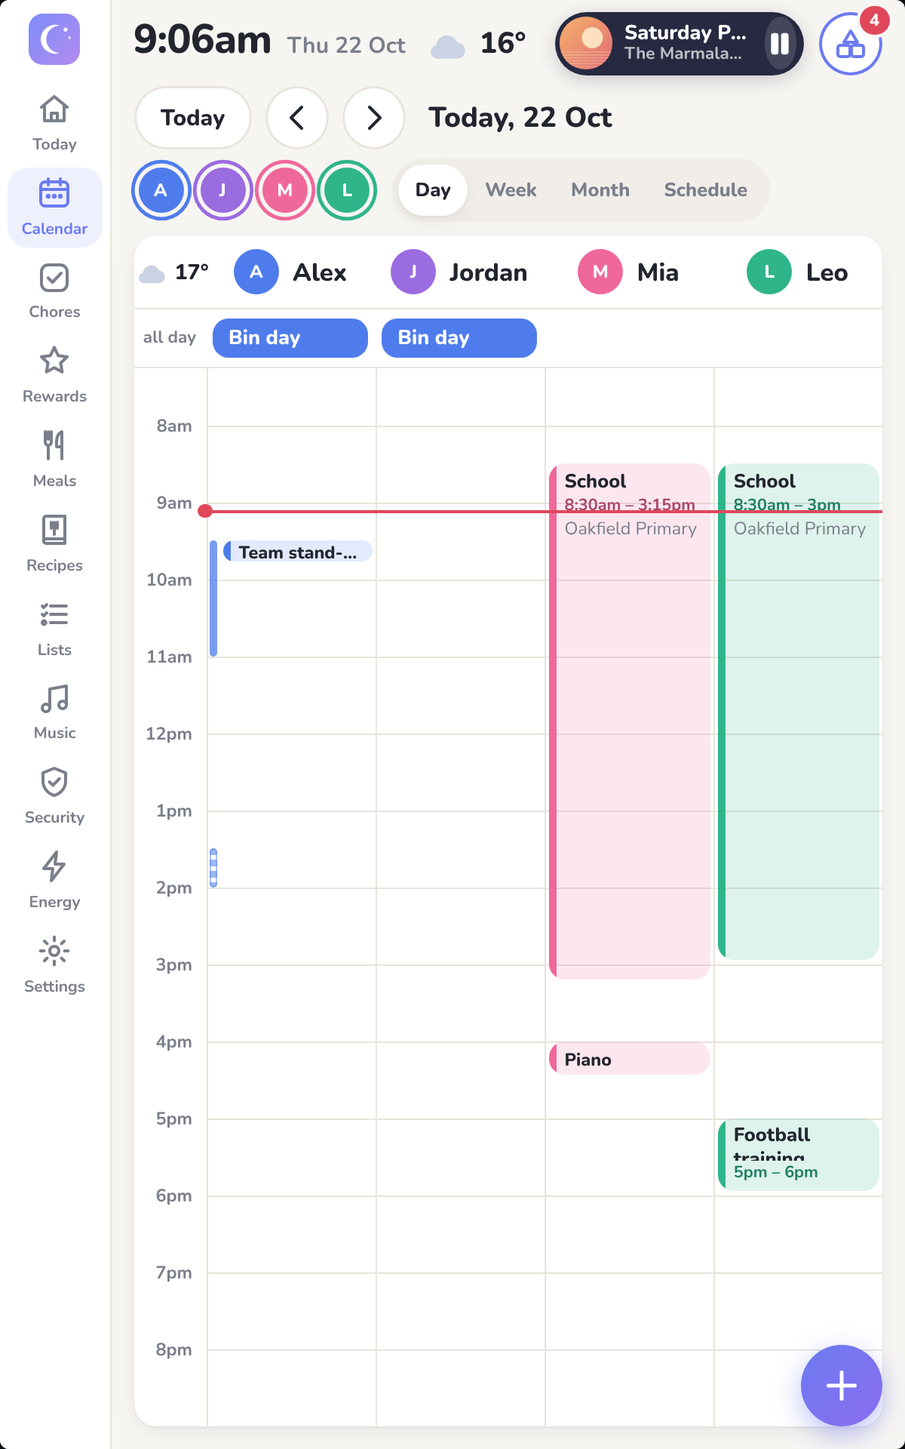
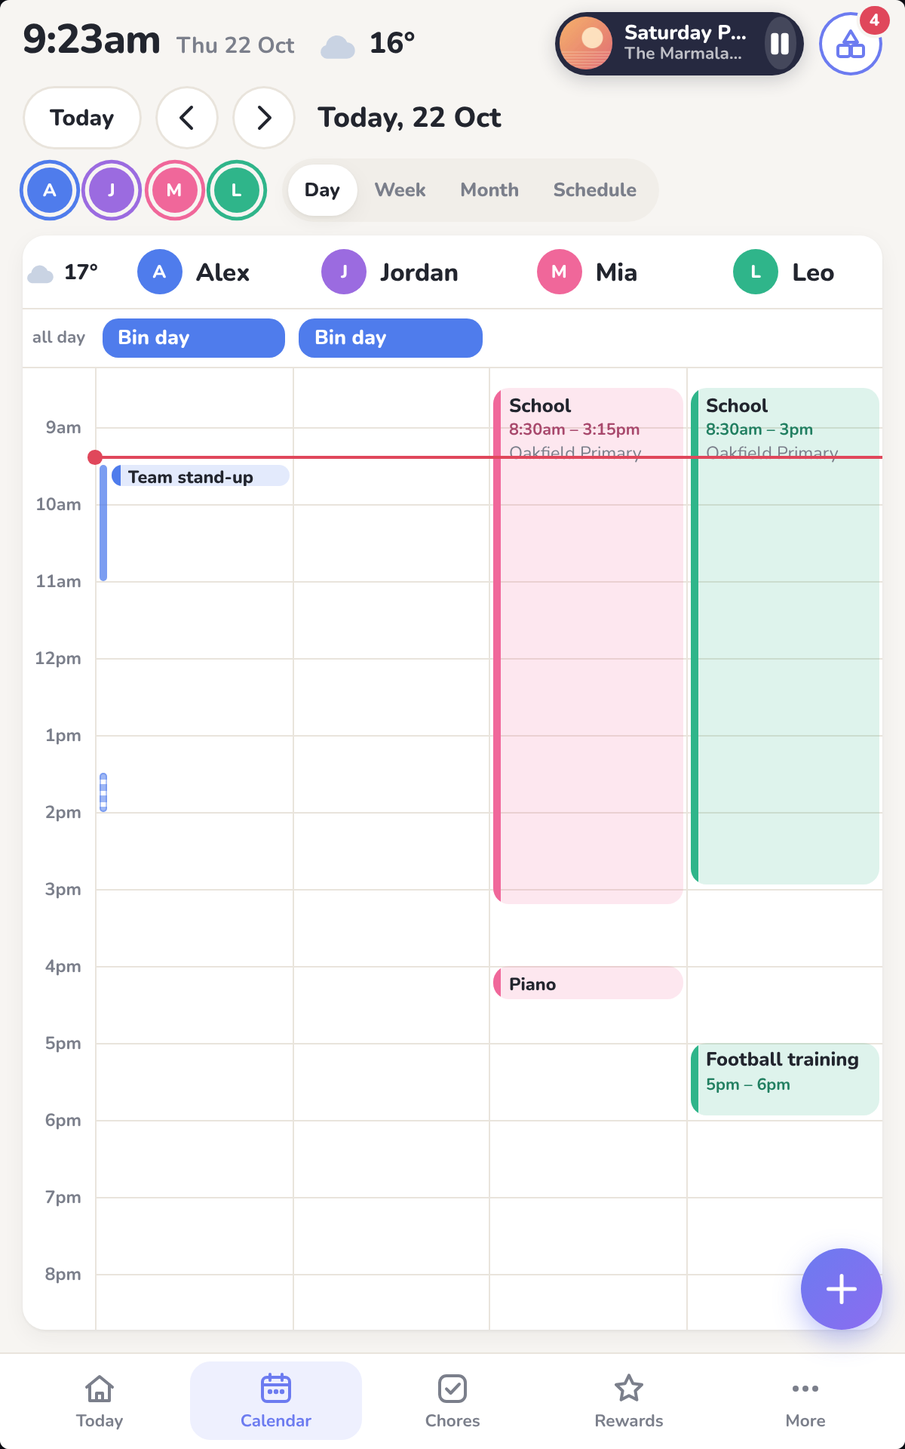
Upright compact screens: menu as a bottom bar with a More sheet
Stood upright, a compact screen's menu moves to a bar along the bottom with
up to four tabs and More for the rest. Settings > Screens picks the four
per screen (or per style) as setup `bar`; unset = the menu's first four.

Claude-Session: https://claude.ai/code/session_01SxJqwE1FKDR6SPmU7qiS3u

diff --git a/frontend/src/views/DisplaysSettings.tsx b/frontend/src/views/DisplaysSettings.tsx
@@ -1,6 +1,6 @@
 import { useEffect, useState } from "react";
 import {
-  ApiError, DEFAULT_IDLE, DEFAULT_SCREENS, Display, DisplaySetup, ImmichAlbum, ImmichConfig, ImmichMode, Layout, MediaPlayerOption, SECTIONS, STYLE_LABEL,
+  ApiError, BAR_MAX, BarTab, DEFAULT_IDLE, DEFAULT_SCREENS, Display, DisplaySetup, ImmichAlbum, ImmichConfig, ImmichMode, Layout, MediaPlayerOption, SECTIONS, STYLE_LABEL,
   Section, Settings,
 } from "../api/types";
 import { useApp, useData, useNow } from "../state";
@@ -27,6 +27,9 @@ const STYLES: { layout: Layout; note: string }[] = [
 const SECTION_LABEL: Record<Section, string> = {
   today: "Today", calendar: "Calendar", chores: "Chores", rewards: "Rewards", meals: "Meals", recipes: "Recipes", lists: "Lists", nursery: "Nursery", security: "Security", energy: "Energy",
 };
+const TAB_LABEL: Record<BarTab, string> = { ...SECTION_LABEL, music: "Music", settings: "Settings" };
+/** The menu's order, with Music (there whenever the screen has a speaker) after Lists. */
+const MENU_ORDER: BarTab[] = [...SECTIONS.slice(0, 7), "music", ...SECTIONS.slice(7), "settings"];
 const SPEAKER_WHERE: Record<Layout, string> = {
   compact: "A Music section, a card on Today, and controls on the screensaver",
   large: "A Music section, a small player in the top bar, and controls on the screensaver",
@@ -172,13 +175,23 @@ function SetupSheet({ display, layout: initialLayout, players, playersError, onC
   const [start, setStart] = useState<Section>(initial.start);
   const [speaker, setSpeaker] = useState(initial.speaker);
   const [idle, setIdle] = useState(initial.idle_minutes);
+  const [bar, setBar] = useState<BarTab[] | null>(initial.bar?.length ? initial.bar : null);
   const [saving, setSaving] = useState(false);
   const [removing, setRemoving] = useState(false);
   const shown = SECTIONS.filter((x) => sections.includes(x));
   const opensOn = shown.includes(start) ? start : shown[0];
-  const setup: DisplaySetup = { sections: shown, start: opensOn, speaker, idle_minutes: idle };
-  const changed = JSON.stringify(setup) !== JSON.stringify({ sections: initial.sections, start: initial.start, speaker: initial.speaker, idle_minutes: initial.idle_minutes });
+  // The bottom bar (compact screens stood upright): the chosen tabs, else the menu's first four.
+  const menu = MENU_ORDER.filter((x) => x === "settings" || (x === "music" ? !!speaker : shown.includes(x)));
+  const inBar = bar ? menu.filter((x) => bar.includes(x)) : menu.slice(0, BAR_MAX);
+  const setup: DisplaySetup = { sections: shown, start: opensOn, speaker, idle_minutes: idle, bar: bar && inBar };
+  const changed = JSON.stringify(setup) !== JSON.stringify({ sections: initial.sections, start: initial.start, speaker: initial.speaker,
+    idle_minutes: initial.idle_minutes, bar: initial.bar?.length ? menu.filter((x) => initial.bar!.includes(x)) : null });
   const title = display ? display.name : `${STYLE_LABEL[initialLayout]} screens`;
+  function toggleBar(x: BarTab) {
+    if (inBar.includes(x)) { const next = inBar.filter((y) => y !== x); setBar(next.length ? next : null); }
+    else if (inBar.length >= BAR_MAX) toast(`Up to ${BAR_MAX}: the rest go under More`);
+    else setBar(menu.filter((y) => y === x || inBar.includes(y)));
+  }
   function toggle(x: Section) {
     if (sections.includes(x)) { if (sections.length > 1) setSections(sections.filter((y) => y !== x)); }
     else setSections([...sections, x]);
@@ -196,7 +209,7 @@ function SetupSheet({ display, layout: initialLayout, players, playersError, onC
         });
       } else {
         await api.updateSettings({
-          pin, screens: { [layout]: { sections: shown, start: opensOn } },
+          pin, screens: { [layout]: { sections: shown, start: opensOn, bar: bar && inBar } },
           media_players: { [layout]: speaker }, idle_minutes: { [layout]: idle },
         });
       }
@@ -258,6 +271,15 @@ function SetupSheet({ display, layout: initialLayout, players, playersError, onC
             <button key={x} type="button" className={"chip-btn" + (opensOn === x ? " on" : "")} onClick={() => setStart(x)}>{SECTION_LABEL[x]}</button>
           ))}
         </div>
+        {layout === "compact" && menu.length > BAR_MAX + 1 && (<>
+          <label className="field-label">Bottom bar when upright</label>
+          <p className="muted connect-note">A compact screen stood on its end has its menu along the bottom. Pick up to {BAR_MAX} tabs for the bar; the rest go under More.</p>
+          <div className="chip-row">
+            {menu.map((x) => (
+              <button key={x} type="button" className={"chip-btn" + (inBar.includes(x) ? " on" : "")} aria-pressed={inBar.includes(x)} onClick={() => toggleBar(x)}>{TAB_LABEL[x]}</button>
+            ))}
+          </div>
+        </>)}
         <label className="field-label">Speaker</label>
         <p className="muted connect-note">{SPEAKER_WHERE[layout]}. Speakers come from Home Assistant; with Music Assistant, Sonos and others appear here.</p>
         {playersError && <div className="form-error">{playersError}</div>}

diff --git a/frontend/src/App.tsx b/frontend/src/App.tsx
@@ -1,10 +1,10 @@
 import { CSSProperties, ReactNode, RefObject, useCallback, useEffect, useLayoutEffect, useRef, useState } from "react";
-import { Api, DEFAULT_SCREENS, Display, Person, Section, Settings, Theme } from "./api/types";
+import { Api, BAR_MAX, DEFAULT_SCREENS, Display, Person, Section, Settings, Theme } from "./api/types";
 import { AppProvider, Layout, useApp, useNow } from "./state";
 import { fmtDayMonth, fmtDow, fmtFull, today } from "./dates";
-import { PinPad } from "./components/ui";
+import { PinPad, Sheet } from "./components/ui";
 import {
-  IconBolt, IconCalendar, IconChores, IconHome, IconLists, IconMeals, IconMusic, IconNursery, IconRecipes, IconSettings, IconShield, IconStar, Logo, WeatherIcon,
+  IconBolt, IconCalendar, IconChores, IconHome, IconLists, IconMeals, IconMore, IconMusic, IconNursery, IconRecipes, IconSettings, IconShield, IconStar, Logo, WeatherIcon,
 } from "./components/icons";
 import { CalendarView } from "./views/CalendarView";
 import { ChoresView } from "./views/ChoresView";
@@ -160,6 +160,11 @@ export function App({ api, layout, onLayout }: { api: Api; layout: Layout; onLay
   // Music comes with a speaker: it's there whenever this screen has one (Settings > Screens > Set up > Speaker).
   const speaker = screen?.setup?.speaker ?? settings?.media_players?.[layout] ?? "";
   const nav = NAV.filter((n) => n.key === "settings" || (n.key === "music" ? !!speaker : setup.sections.includes(n.key as Section)));
+  // Stood upright, a compact screen's menu is a bottom bar: the chosen tabs (else the first four), the rest under More.
+  const picked = nav.filter((n) => chosen.bar?.includes(n.key));
+  const bar = !portrait || nav.length <= BAR_MAX + 1 ? nav : picked.length ? picked.slice(0, BAR_MAX) : nav.slice(0, BAR_MAX);
+  const more = nav.filter((n) => !bar.includes(n));
+  const [moreOpen, setMoreOpen] = useState(false);
   // Open on the chosen start section once settings arrive, and leave a section that was just hidden.
   const opened = useRef(false);
   useEffect(() => {
@@ -195,14 +200,35 @@ export function App({ api, layout, onLayout }: { api: Api; layout: Layout; onLay
        <MediaProvider api={api} layout={layout}>
         <nav className="rail">
           <div className="rail-logo"><Logo size={layout === "large" ? 44 : 34} /></div>
-          {nav.map((n) => (
+          {bar.map((n) => (
             <button key={n.key} className={"rail-item" + (tab === n.key ? " on" : "")} onClick={() => setTab(n.key)}>
               <n.icon size={layout === "large" ? 30 : layout === "phone" ? 21 : 24} />
               {n.key === "nursery" && nursery.unread > 0 && tab !== "nursery" && <i className="rail-dot" aria-label="New" />}
               <span>{n.label}</span>
             </button>
           ))}
+          {more.length > 0 && (
+            <button className={"rail-item" + (more.some((n) => n.key === tab) ? " on" : "")} onClick={() => setMoreOpen(true)}>
+              <IconMore size={24} />
+              {more.some((n) => n.key === "nursery") && nursery.unread > 0 && tab !== "nursery" && <i className="rail-dot" aria-label="New" />}
+              <span>More</span>
+            </button>
+          )}
         </nav>
+        {moreOpen && (
+          <Sheet title="More" onClose={() => setMoreOpen(false)}>
+            <div className="more-grid">
+              {more.map((n) => (
+                <button key={n.key} className={"more-item" + (tab === n.key ? " on" : "")} onClick={() => { setTab(n.key); setMoreOpen(false); }}>
+                  <n.icon size={30} />
+                  {n.key === "nursery" && nursery.unread > 0 && tab !== "nursery" && <i className="rail-dot" aria-label="New" />}
+                  <span>{n.label}</span>
+                </button>
+              ))}
+            </div>
+            <p className="muted connect-note">Choose what's in the bar in Settings › Screens.</p>
+          </Sheet>
+        )}
         <main className="main">
           {/* A compact screen's Today has its own Now playing card; everywhere else a small pill in the top bar. */}
           {/* Energy on a wall screen fills the screen and carries its own clock. */}

diff --git a/frontend/src/styles.css b/frontend/src/styles.css
@@ -1570,6 +1570,13 @@ button.rw-emoji, button.rw-title { cursor: pointer; }
 
 /* Compact screen stood upright (the Touch Display 2 is portrait natively): the `portrait` class comes from the app's
    own box (see usePortrait in App), not the window, so the demo's preview frame shows it too. */
+/* The menu is a bottom bar: up to four chosen tabs and More (App.tsx), full width like a phone's tab bar */
+.layout-compact.portrait { grid-template-columns: minmax(0, 1fr); grid-template-rows: minmax(0, 1fr) auto; }
+.layout-compact.portrait .main { grid-row: 1; }
+.layout-compact.portrait .rail { grid-row: 2; flex-direction: row; justify-content: space-around; width: auto; padding: 0.3rem 0.6rem 0.4rem; border-right: 0; border-top: 1px solid var(--line); gap: 0.2rem; }
+.layout-compact.portrait .rail-logo { display: none; }
+.layout-compact.portrait .rail-item { flex: 1 1 0; min-width: 0; max-width: 8rem; padding: 0.4rem 0.2rem 0.35rem; gap: 0.15rem; font-size: 0.75rem; }
+.layout-compact.portrait .rail-item span { max-width: 100%; overflow: hidden; text-overflow: ellipsis; white-space: nowrap; }
 .layout-compact.portrait .topbar { gap: 0.7rem; }
 .layout-compact.portrait .tb-date { white-space: nowrap; overflow: hidden; text-overflow: ellipsis; min-width: 0; }
 .layout-compact.portrait .tb-time, .layout-compact.portrait .tb-wx { flex: none; }
@@ -1634,3 +1641,8 @@ button.rw-emoji, button.rw-title { cursor: pointer; }
 .layout-compact.portrait .ss-np { left: 0; right: 0; top: 0; bottom: auto; width: auto; max-width: none; }
 .layout-compact.portrait .ss-right .ss-next { align-self: flex-start; }
 .layout-compact.portrait .ss-right:has(.ss-np) .ss-next { margin-top: 8rem; }
+/* More: the tabs that aren't in the bottom bar */
+.more-grid { display: grid; grid-template-columns: repeat(auto-fill, minmax(7rem, 1fr)); gap: 0.6rem; }
+.more-item { position: relative; display: flex; flex-direction: column; align-items: center; gap: 0.35rem; padding: 1rem 0.4rem 0.8rem; border-radius: var(--radius); background: var(--surface-2); color: var(--text-2); font-weight: 800; }
+.more-item.on { background: var(--accent-soft); color: var(--accent); }
+.more-item:active { background: var(--line); }

diff --git a/frontend/src/api/types.ts b/frontend/src/api/types.ts
@@ -35,7 +35,10 @@ export interface Holiday { date: string; name: string }
 export interface HolidayCountry { code: string; name: string; subdivs: { code: string; name: string }[] }
 export type Section = "today" | "calendar" | "chores" | "rewards" | "meals" | "recipes" | "lists" | "nursery" | "security" | "energy";
 export const SECTIONS: Section[] = ["today", "calendar", "chores", "rewards", "meals", "recipes", "lists", "nursery", "security", "energy"];
-export interface ScreenSetup { start: Section; sections: Section[] }
+/** `bar`: up to four tabs kept in the bottom bar of a compact screen stood upright, the rest under More (unset = the menu's first four). */
+export interface ScreenSetup { start: Section; sections: Section[]; bar?: BarTab[] | null }
+export type BarTab = Section | "music" | "settings";
+export const BAR_MAX = 4;
 export const DEFAULT_SCREENS: Record<Layout, ScreenSetup> = {
   large: { start: "calendar", sections: ["calendar", "chores", "rewards", "meals", "recipes", "lists", "nursery", "security", "energy"] },
   compact: { start: "today", sections: SECTIONS.filter((s) => s !== "nursery") },
@@ -170,7 +173,7 @@ export interface Display {
   setup?: DisplaySetup; own_setup?: boolean;
 }
 /** A paired screen's setup: menu sections, the one it opens on, its speaker ("" = none), screensaver delay (0 = never). */
-export interface DisplaySetup { start: Section; sections: Section[]; speaker: string; idle_minutes: number }
+export interface DisplaySetup { start: Section; sections: Section[]; speaker: string; idle_minutes: number; bar?: BarTab[] | null }
 export interface DisplayPatch { pin: string; name?: string; layout?: Layout; setup?: Partial<DisplaySetup> | null }
 export const DEFAULT_IDLE: Record<Layout, number> = { large: 5, compact: 3, phone: 0 };
 export const STYLE_LABEL: Record<Layout, string> = { large: "Large", compact: "Compact", phone: "Phone" };

diff --git a/backend/moonlight/routes/displays.py b/backend/moonlight/routes/displays.py
@@ -25,6 +25,9 @@ from ..common import LAYOUTS, as_int, bad, body_dict, choice, hub, layout_name, 
 router = APIRouter(prefix="/api")
 
 SECTIONS = ("today", "calendar", "chores", "rewards", "meals", "recipes", "lists", "nursery", "security", "energy")  # Settings is always shown
+# The bottom bar of a compact screen stood upright: up to four of its menu's tabs, the rest under More.
+BAR_TABS = (*SECTIONS, "music", "settings")
+BAR_MAX = 4
 SERVICE = "service"  # a non-screen client, e.g. the Home Assistant integration
 APP = "app"  # the iPhone and iPad app
 NOT_SCREENS = (SERVICE, APP)
@@ -45,8 +48,11 @@ def style_setup(c, layout: str) -> dict:
     screens = db.get_setting(c, "screens", db.DEFAULT_SETTINGS["screens"])
     idle = db.get_setting(c, "idle_minutes", db.DEFAULT_SETTINGS["idle_minutes"])
     s = {**db.DEFAULT_SETTINGS["screens"][layout], **(screens.get(layout) or {})}
-    return {"start": s["start"], "sections": list(s["sections"]), "speaker": media.players_setting(c)[layout],
-            "idle_minutes": idle.get(layout, db.DEFAULT_SETTINGS["idle_minutes"][layout])}
+    out = {"start": s["start"], "sections": list(s["sections"]), "speaker": media.players_setting(c)[layout],
+           "idle_minutes": idle.get(layout, db.DEFAULT_SETTINGS["idle_minutes"][layout])}
+    if s.get("bar"):
+        out["bar"] = list(s["bar"])  # unset = the menu's first four
+    return out
 
 
 def display_out(d: dict, current_id: str | None = None, c=None) -> dict:
@@ -61,7 +67,7 @@ def display_out(d: dict, current_id: str | None = None, c=None) -> dict:
                 base = style_setup(c2, d["layout"])
         else:
             base = style_setup(c, d["layout"])
-        out["setup"] = {**base, **{k: v for k, v in own.items() if k in base}}
+        out["setup"] = {**base, **{k: v for k, v in own.items() if k in base or k == "bar"}}
         out["own_setup"] = bool(own)
     return out
 
@@ -167,7 +173,7 @@ async def approve(body: dict = Body(...)):
 @router.patch("/displays/{display_id}")
 async def update(display_id: str, request: Request, body: dict = Body(...)):
     """Change a paired screen: `{pin, name?, layout?, setup?}`. `setup` is `{start?, sections?, speaker?,
-    idle_minutes?}` merged into its own setup, or `null` to follow its style again."""
+    idle_minutes?, bar?}` merged into its own setup, or `null` to follow its style again."""
     body = body_dict(body)
     with db.connect() as c:
         require_pin(c, body.get("pin"))
@@ -223,6 +229,9 @@ def _check_setup(c, layout: str, s: dict) -> dict:
             if not 0 <= v <= 1440:
                 raise bad("setup.idle_minutes must be between 0 (never) and 1440")
             out[k] = v
+        elif k == "bar":
+            if v is not None:  # null = back to the menu's first four
+                out[k] = check_bar(v, "setup.bar")
         else:
             raise bad(f"Unknown setup field {k}")
     sections = out.get("sections", base["sections"])
@@ -231,8 +240,15 @@ def _check_setup(c, layout: str, s: dict) -> dict:
     return out
 
 
+def check_bar(v, field: str) -> list[str]:
+    """The tabs a compact screen keeps in its bottom bar when upright, in the order given."""
+    if not isinstance(v, list) or len(v) > BAR_MAX or any(x not in BAR_TABS for x in v):
+        raise bad(f"{field} must be a list of up to {BAR_MAX} of " + ", ".join(BAR_TABS))
+    return list(dict.fromkeys(v))
+
+
 def apply_settings(c, body: dict) -> None:
-    """PATCH /api/settings `screens`: {layout: {start?, sections?}}; layouts not sent are kept."""
+    """PATCH /api/settings `screens`: {layout: {start?, sections?, bar?}}; layouts not sent are kept."""
     if "screens" not in body:
         return
     val = body["screens"]
@@ -251,6 +267,11 @@ def apply_settings(c, body: dict) -> None:
             s["sections"] = [x for x in SECTIONS if x in secs]
         if "start" in conf:
             s["start"] = choice(conf["start"], f"screens.{layout}.start", SECTIONS)
+        if "bar" in conf:
+            if conf["bar"] is None:
+                s.pop("bar", None)
+            else:
+                s["bar"] = check_bar(conf["bar"], f"screens.{layout}.bar")
         if s["start"] not in s["sections"]:
             if "start" in conf:
                 raise bad(f"screens.{layout}.start must be one of its sections")

diff --git a/backend/tests/test_displays.py b/backend/tests/test_displays.py
@@ -237,7 +237,9 @@ def test_one_address_and_per_screen_setup(app_on, ha):
     assert r["own_setup"] is False and r["setup"]["start"] == "today" and r["setup"]["idle_minutes"] == 3
 
     for bad in ({"setup": {"sections": []}}, {"setup": {"start": "settings"}}, {"setup": {"speaker": "light.x"}},
-                {"setup": {"idle_minutes": -1}}, {"setup": {"colour": "red"}}, {"setup": []}, {"layout": "tv"}):
+                {"setup": {"idle_minutes": -1}}, {"setup": {"colour": "red"}}, {"setup": []}, {"layout": "tv"},
+                {"setup": {"bar": ["today", "calendar", "meals", "lists", "music"]}}, {"setup": {"bar": ["garage"]}},
+                {"setup": {"bar": "today"}}):
         assert ha.patch(f"/api/displays/{d['id']}", json={"pin": PIN, **bad}).status_code == 400, bad
     assert ha.patch(f"/api/displays/{other['id']}", json={"pin": "0000", "layout": "phone"}).status_code == 403
 
@@ -301,3 +303,26 @@ def test_the_phone_app_is_not_a_screen(app_on, ha):
     assert lan(app_on, headers={"Authorization": f"Bearer {token}"}).get("/api/people").status_code == 200
     assert ha.patch(f"/api/displays/{d['id']}", json={"pin": PIN, "layout": "phone"}).status_code == 400
     assert ha.patch(f"/api/displays/{d['id']}", json={"pin": PIN, "name": "Chris's iPhone"}).json()["name"] == "Chris's iPhone"
+
+
+def test_bottom_bar_choice(app_on, ha):
+    """A compact screen stood upright keeps up to four chosen tabs in its bottom bar; unset = automatic."""
+    _, d = pair(ha, lan(app_on), name="Kitchen", layout="compact")
+    assert "bar" not in d["setup"]
+    r = ha.patch(f"/api/displays/{d['id']}", json={"pin": PIN, "setup": {"bar": ["today", "meals", "music", "meals"]}})
+    assert r.status_code == 200, r.text
+    assert r.json()["setup"]["bar"] == ["today", "meals", "music"] and r.json()["own_setup"] is True
+    r = ha.patch(f"/api/displays/{d['id']}", json={"pin": PIN, "setup": {"idle_minutes": 4}}).json()
+    assert r["setup"]["bar"] == ["today", "meals", "music"]  # other changes keep it
+    r = ha.patch(f"/api/displays/{d['id']}", json={"pin": PIN, "setup": {"bar": None}}).json()
+    assert "bar" not in r["setup"]
+
+    # The style's choice, for compact screens without their own setup.
+    _, other = pair(ha, lan(app_on), name="Hall", layout="compact")
+    assert ha.patch("/api/settings", json={"pin": PIN, "screens": {"compact": {"bar": ["calendar", "settings"]}}}).status_code == 200
+    shown = {x["name"]: x for x in ha.get("/api/displays").json()}
+    assert shown["Hall"]["setup"]["bar"] == ["calendar", "settings"]
+    assert ha.patch("/api/settings", json={"pin": PIN, "screens": {"compact": {"bar": ["x"]}}}).status_code == 400
+    ha.patch("/api/settings", json={"pin": PIN, "screens": {"compact": {"bar": None}}})
+    shown = {x["name"]: x for x in ha.get("/api/displays").json()}
+    assert "bar" not in shown["Hall"]["setup"]

diff --git a/API.md b/API.md
@@ -29,7 +29,9 @@ implementation of the same contract, used for the published preview). Keep them 
   `screens` = per style `{start, sections}`: the sections its menu shows, in menu order, from `today, calendar,
   chores, rewards, meals, recipes, lists, nursery, security, energy` (Settings is always shown), and the one it opens on (default large
   `{start: "calendar", sections: all but today}`, compact `{start: "today", sections: all but nursery}`, phone the same). Upgrading to 0.6.0 adds `security` once to the large and compact menus, and 0.8.5 to the phone
-  menus; upgrading to 0.8.0 adds `energy` once to every style's menu.
+  menus; upgrading to 0.8.0 adds `energy` once to every style's menu. `bar` (optional): up to 4 tabs from the sections
+  plus `music` and `settings`, in order, kept in the bottom bar of a compact screen stood upright (the rest go under
+  More); unset or null = the menu's first four.
   `weather_entity` = the HA weather entity the screens show (`""` = demo forecast; falls back to `MOONLIGHT_WEATHER_ENTITY`
   until one is saved).
   `holidays` = the public holidays that `skip_holidays` repeats leave out: ISO country code (`""` = none) and region
@@ -546,7 +548,7 @@ Every screen opens the same address, `/display`, and is told apart by the token 
 can't read a MAC address). Each paired screen has a name, a style and its own setup.
 
 Display = `{id, name, layout: "large"|"compact"|"phone"|"service"|"app", created_at, last_seen|null, revoked, current: bool,
-setup?: {start, sections, speaker, idle_minutes}, own_setup?: bool}`
+setup?: {start, sections, speaker, idle_minutes, bar?}, own_setup?: bool}`
 (`current` = the screen making the request; `last_seen` updated at most once a minute). Screens only: `setup` is what it
 shows, its own choices over its style's (Settings `screens`, `media_players`, `idle_minutes`); `own_setup` says whether
 it has choices of its own. The frontend takes the style from `GET /api/auth/status` and switches when it changes.
@@ -563,7 +565,8 @@ it has choices of its own. The frontend takes the style from `GET /api/auth/stat
   pairing always stays `service` (the approver's `layout` is ignored), and a screen can't be approved as `service`.
 - `GET /api/displays` -> `[Display]` (not revoked)
 - `PATCH /api/displays/{id}` `{pin, name?, layout?, setup?}` -> Display. `setup` = `{start?, sections?, speaker?,
-  idle_minutes?}` merged into the screen's own setup (`speaker` a `media_player.*` id or `""` for none; hiding the start
+  idle_minutes?, bar?}` merged into the screen's own setup (`speaker` a `media_player.*` id or `""` for none; `bar` as in
+  Settings `screens`, null = back to automatic; hiding the start
   section moves it to the first one left), or `null` to follow its style again. A `service` has no style or setup.
 - `DELETE /api/displays/{id}` `{pin}` -> `{ok: true}`; that token stops working on its next request.
 

diff --git a/addon/DOCS.md b/addon/DOCS.md
@@ -34,7 +34,8 @@ or phone) go to Settings > Screens > Pair, enter the code and the PIN, and give 
 screen remembers its pairing. Tap it in Settings > Screens to rename it, pick its style (Large for a big wall screen,
 Compact for a small touch screen, Phone) and choose what it shows: the sections in its menu, the one it opens on, its
 speaker and when the photo screensaver starts. Remove it there too. A compact screen can hang either way round:
-turned upright, it rearranges every section to suit a tall screen.
+turned upright, it rearranges every section to suit a tall screen and moves its menu to a bar along the bottom. Pick up
+to four tabs for that bar under "Bottom bar when upright"; the rest are under More.
 
 Below the screens, "In the Home Assistant app" sets the same choices per style for Moonlight opened from Home
 Assistant's sidebar or phone app. Paired screens follow those until they're given choices of their own.

diff --git a/README.md b/README.md
@@ -52,6 +52,7 @@ addresses still work.
 - Compact: a small touch screen, e.g. Touch Display 2, 1920x1200, TouchKio at 2x zoom = 960x600 CSS px. Opens on Today.
   Mounted upright (1200x1920, 600x960 CSS px) it switches to a portrait arrangement of every section by itself: the
   `portrait` class on `.app` follows the app's own box, so the demo preview's "Compact portrait" frame shows it too.
+  Upright, the menu is a bottom bar: up to four tabs chosen per screen (setup `bar`, else the first four) and More.
 - Phone: a phone browser, or the HA sidebar and companion app via ingress.
 - iPhone, iPad and Apple TV: the native apps in [`apple/`](apple/README.md) find Moonlight on the network and pair with a code like the other screens.
 - Kiosks need an emoji font for chore icons: `sudo apt install fonts-noto-color-emoji` on Raspberry Pi OS.
